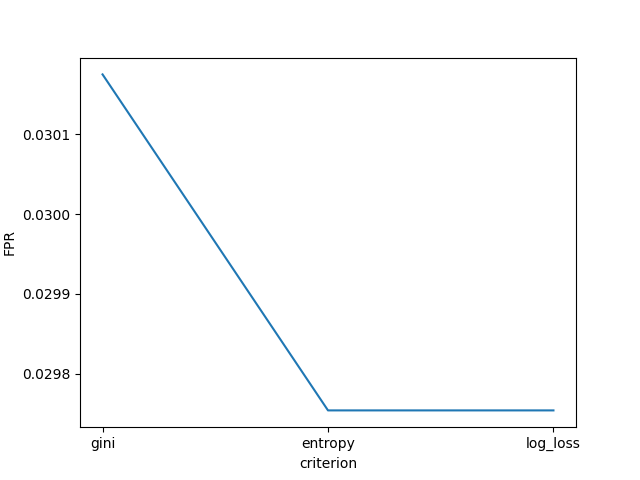
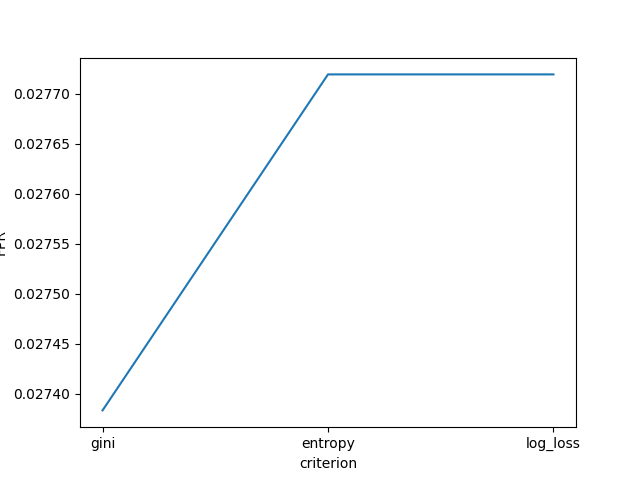
general update

diff --git a/random_forest.py b/random_forest.py
@@ -5,22 +5,33 @@ import database as db
 import numpy as np
 from sklearn.preprocessing import OneHotEncoder, StandardScaler
 from sklearn.model_selection import train_test_split, cross_val_score
-from sklearn.metrics import confusion_matrix
+from sklearn.metrics import confusion_matrix, make_scorer
 
 def random_forest_train(X_train, y_train, X_test, y_test, n_estimators, random_state, criterion, max_depth=None, min_samples_split=2, min_samples_leaf=1, min_weight_fraction_leaf=0.0, max_leaf_nodes=None, min_impurity_decrease=0.0, bootstrap=True, oob_score=False, n_jobs=None, verbose=0, warm_start=False, class_weight=None, ccp_alpha=0.0, max_samples=None, cv=10):
     rF_model = RandomForestClassifier(n_estimators=n_estimators, random_state=random_state, criterion=criterion, max_depth=max_depth, min_samples_split=min_samples_split, min_samples_leaf=min_samples_leaf, min_weight_fraction_leaf=min_weight_fraction_leaf, max_leaf_nodes=max_leaf_nodes, min_impurity_decrease=min_impurity_decrease, bootstrap=bootstrap, oob_score=oob_score, n_jobs=n_jobs, verbose=verbose, warm_start=warm_start, class_weight=class_weight, ccp_alpha=ccp_alpha, max_samples=max_samples)
     cross_list = []
-    cross_list, cross_average = cross_validation(rF_model, X_train, y_train, cv, 'f1', cross_list)
+    cross_list, average_f1 = cross_validation(rF_model, X_train, y_train, cv, 'f1', cross_list)
     cross_numlist = [i + 1 for i in range(len(cross_list[0]))]
     plot.draw(cross_numlist, cross_list[0], cross_numlist, 'RF', f'{criterion}_fold', 'cross_result_f1')
-    
+
+
+
+    fpr_scorer = make_scorer(false_positive_rate)
+    cross_list = []
+    cross_list, average_fpr = cross_validation(rF_model, X_train, y_train, cv, fpr_scorer, cross_list)
+    plot.draw(cross_numlist, cross_list[0], cross_numlist, 'RF', f'{criterion}_fold', 'cross_result_fpr')
+
+
     rF_model.fit(X_train, y_train)
     y_pred = rF_model.predict(X_test)
     tn, fp, fn, tp = confusion_matrix(y_test, y_pred).ravel()
     FPR = fp / (tn + fp)
     error_rate = (fp + fn) / (tn + fp + fn + tp)
-    return FPR, error_rate, cross_list, cross_average
+    return average_fpr, error_rate, cross_list, average_f1
 
+def false_positive_rate(y_true, y_pred):
+    tn, fp, fn, tp = confusion_matrix(y_true, y_pred).ravel()
+    return fp / (tn + fp)
 
 def rf_fit(X: pd.DataFrame, portion, cv):
     X_train, X_test = train_test_split(X, test_size=1-portion, train_size=portion)    # split data into train and test
@@ -42,9 +53,9 @@ def rf_fit(X: pd.DataFrame, portion, cv):
     for criterion in criterions:
         fpr, lr_error, cross_val_score, f1 = random_forest_train(X_train, y_train, X_test, y_test, n_estimators=100, random_state=100, criterion=criterion, max_depth=None, min_samples_split=2, min_samples_leaf=1, min_weight_fraction_leaf=0.0, max_leaf_nodes=None, min_impurity_decrease=0.0, bootstrap=True, oob_score=False, n_jobs=None, verbose=0, warm_start=False, class_weight=None, ccp_alpha=0.0, max_samples=None, cv=cv)
 
-        print(fpr, lr_error, cross_val_score, f1)
+        print(fpr, f1)
         FPR.append(fpr)
-        f1s.append(lr_error)
+        f1s.append(f1)
     criterion_numlist = [i + 1 for i in range(len(FPR))]
     plot.draw(criterion_numlist, FPR, criterions, 'RF', 'criterion', 'FPR')
     plot.draw(criterion_numlist, f1s, criterions, 'RF', 'criterion', 'f1s')

diff --git a/main.py b/main.py
@@ -56,7 +56,7 @@ def main():
             case 4:
                 import RNN_implement as rnn
                 rnn_FPR,rnn_error = rnn.rnn_fit(X, portion=portion, cv=cv)
-                #print(svm_FPR,svm_error)
+                print(rnn_FPR,rnn_error)
 
             case 5:
                 import lgbm
